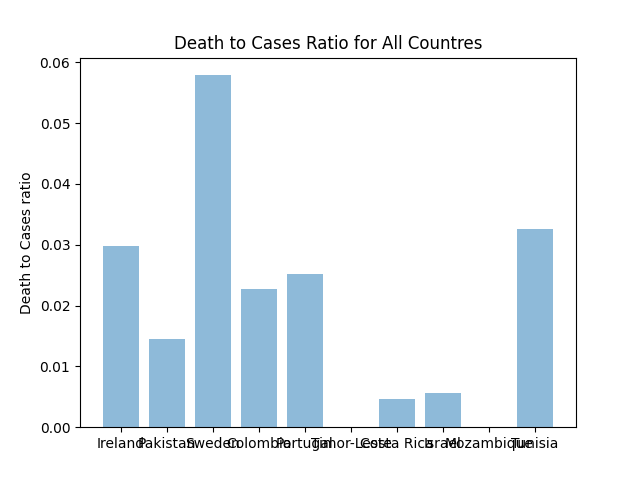
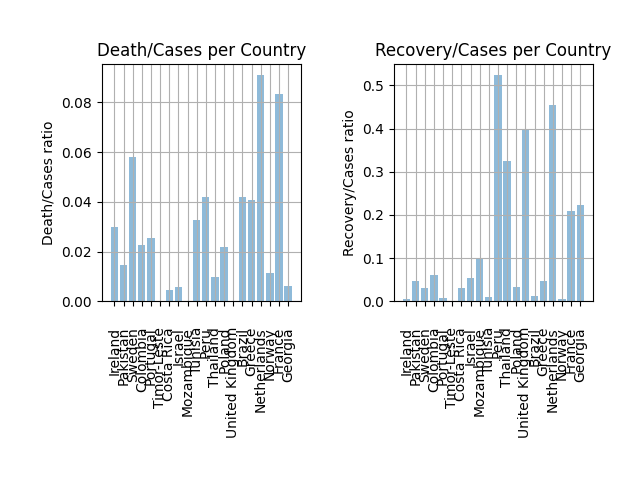
got covid subplots to work and look decent. only putting out 20 countries tho

diff --git a/graphs.py b/graphs.py
@@ -4,6 +4,7 @@ import json
 import os
 import numpy as np
 import sqlite3
+from matplotlib.ticker import FormatStrFormatter
 
 def setup_db():
     #create the connection and cursor
@@ -26,14 +27,29 @@ def calculate_covid_date(cur, fig):
             r_ratio = float(r[3]) / float(r[1])
             inf_death_ratio.append(d_ratio)
             inf_recov_ratio.append(r_ratio)
-            if len(country_list) == 10:
+            if len(country_list) == 20:
                 break
-    y_pos = np.arange(len(country_list))
-    plt.bar(y_pos, inf_death_ratio, align='center', alpha=0.5)
-    plt.xticks(y_pos, country_list)
-    plt.ylabel('Death to Cases ratio')
-    plt.title("Death to Cases Ratio for All Countres")
-    plt.savefig("covidefenders_graph.png")
+    # Death subplot
+    ax1 = fig.add_subplot(1,2,1) # 2x1 grid, first subplot
+    ax1.bar(country_list, inf_death_ratio, align='center', alpha=0.5)
+    ax1.yaxis.set_major_formatter(FormatStrFormatter('%.2f'))
+    ax1.set_title("Death/Cases per Country")
+    ax1.set_ylabel("Death/Cases ratio")
+    ax1.tick_params(axis='x', which='major', pad=15)
+    ax1.grid() # add background lines
+    plt.xticks(rotation='vertical')
+
+    # Recovery subplot
+    ax2 = fig.add_subplot(122) # 2x1 grid second subplot
+    ax2.bar(country_list, inf_recov_ratio, align='center', alpha=0.5)
+    ax2.set_title("Recovery/Cases per Country")
+    ax2.set_ylabel("Recovery/Cases ratio")
+    ax2.tick_params(axis='x', which='major', pad=15)
+    ax2.grid()
+    plt.xticks(rotation='vertical')
+
+    fig.tight_layout(pad=3.0) # space out subplots
+    fig.savefig("covidefenders_graph.png")
     plt.show()
     
 
